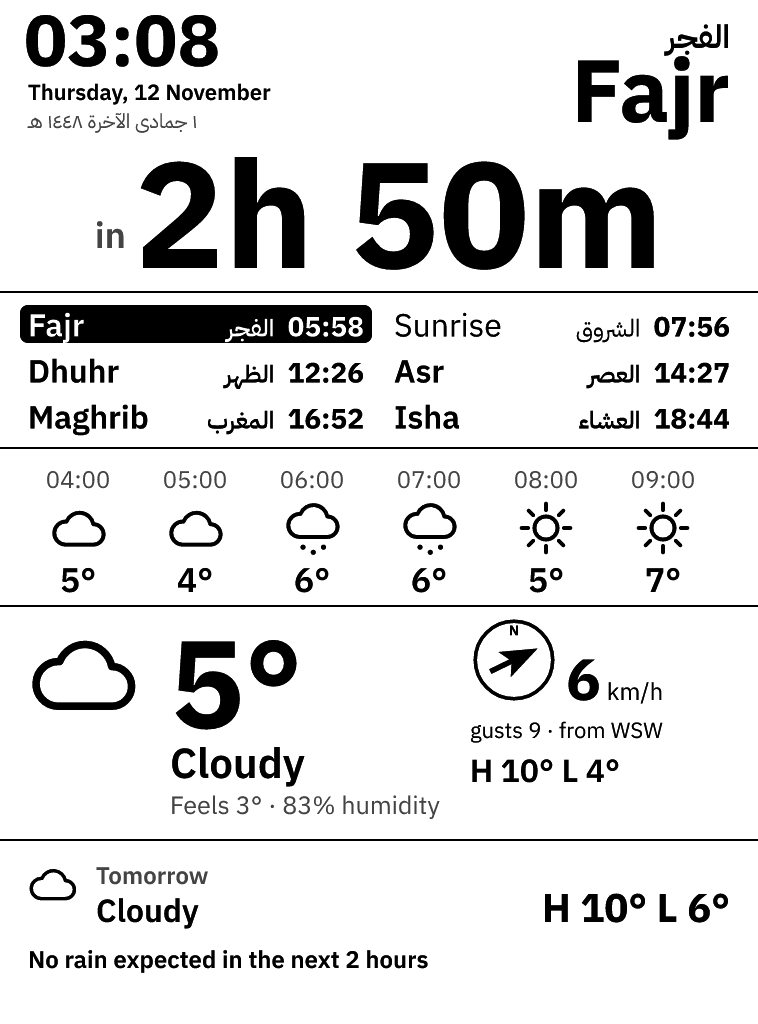
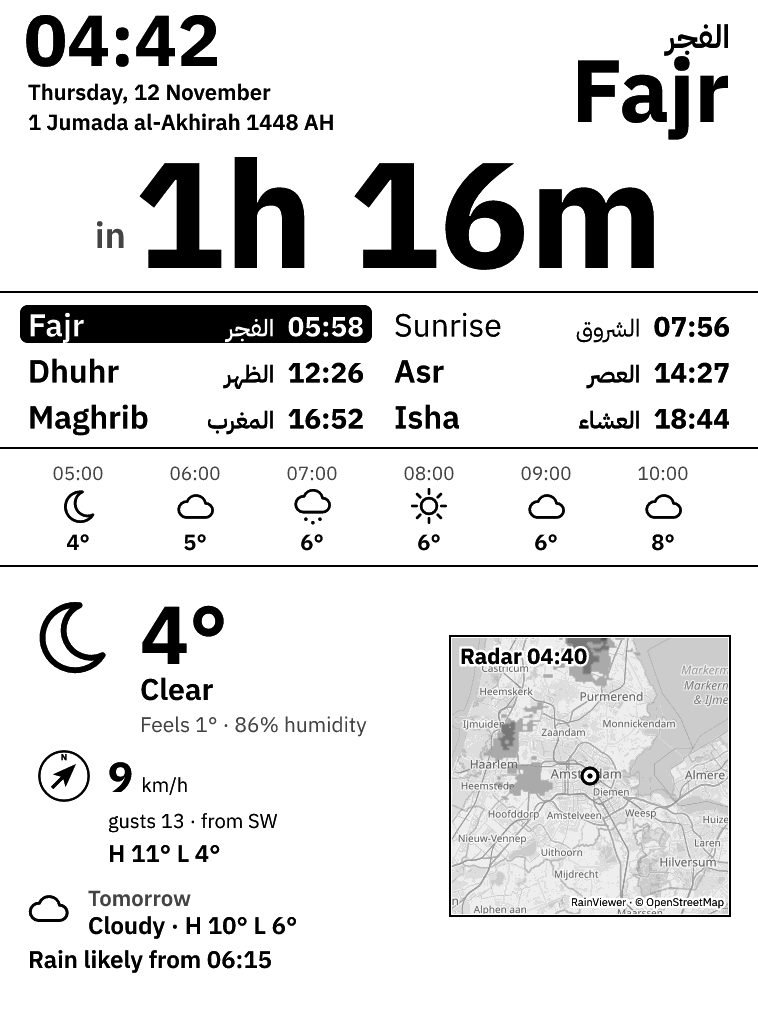
Show the Hijri date next to the Gregorian one
The dashboard already computed the Hijri date, but it rendered in Arabic
at 20px in the muted grey - the faintest line on the page, and the one the
e-ink panel washes out most. It was easy to miss entirely.

Render it in English on its own line under the Gregorian date, at the same
size and weight, in black: "1 Jumada al-Akhirah 1448 AH".

The Arabic form cannot sit beside the prayer name: combined with the
English one the line is 516px wide and runs under "Sunrise" and "Maghrib",
which start at x 419 and 399. The English form alone ends at x 332, clear
of even "Jumu'ah" at 373, so the Arabic rendering and its digit helper go.

diff --git a/src/hijri.rs b/src/hijri.rs
@@ -12,18 +12,18 @@ pub struct HijriDate {
 }
 
 const MONTHS: [&str; 12] = [
-    "محرم",
-    "صفر",
-    "ربيع الأول",
-    "ربيع الآخر",
-    "جمادى الأولى",
-    "جمادى الآخرة",
-    "رجب",
-    "شعبان",
-    "رمضان",
-    "شوال",
-    "ذو القعدة",
-    "ذو الحجة",
+    "Muharram",
+    "Safar",
+    "Rabi' al-Awwal",
+    "Rabi' al-Thani",
+    "Jumada al-Ula",
+    "Jumada al-Akhirah",
+    "Rajab",
+    "Sha'ban",
+    "Ramadan",
+    "Shawwal",
+    "Dhu al-Qa'dah",
+    "Dhu al-Hijjah",
 ];
 
 impl HijriDate {
@@ -48,24 +48,9 @@ impl HijriDate {
         }
     }
 
-    pub fn arabic(self) -> String {
-        format!(
-            "{} {} {} هـ",
-            arabic_digits(self.day.into()),
-            MONTHS[self.month],
-            arabic_digits(self.year)
-        )
+    pub fn english(self) -> String {
+        format!("{} {} {} AH", self.day, MONTHS[self.month], self.year)
     }
-}
-
-fn arabic_digits(n: i32) -> String {
-    n.to_string()
-        .chars()
-        .map(|c| {
-            c.to_digit(10)
-                .map_or(c, |d| char::from_u32(0x0660 + d).unwrap_or(c))
-        })
-        .collect()
 }
 
 #[cfg(test)]
@@ -98,6 +83,6 @@ mod tests {
     #[test]
     fn renders_names() {
         let h = hijri(2026, 11, 12);
-        assert_eq!(h.arabic(), "١ جمادى الآخرة ١٤٤٨ هـ");
+        assert_eq!(h.english(), "1 Jumada al-Akhirah 1448 AH");
     }
 }

diff --git a/src/layout.rs b/src/layout.rs
@@ -87,8 +87,8 @@ fn header(frame: &Frame) -> String {
                 .to_string()
         }),
         text(MARGIN, 100.0, 22, &date).weight(600).to_string(),
-        text(MARGIN, 128.0, 20, &hijri.arabic())
-            .fill(MUTED)
+        text(MARGIN, 130.0, 22, &hijri.english())
+            .weight(600)
             .to_string(),
         text(RIGHT, 48.0, 32, arabic).weight(600).end().to_string(),
         text(RIGHT, 122.0, 88, english)
